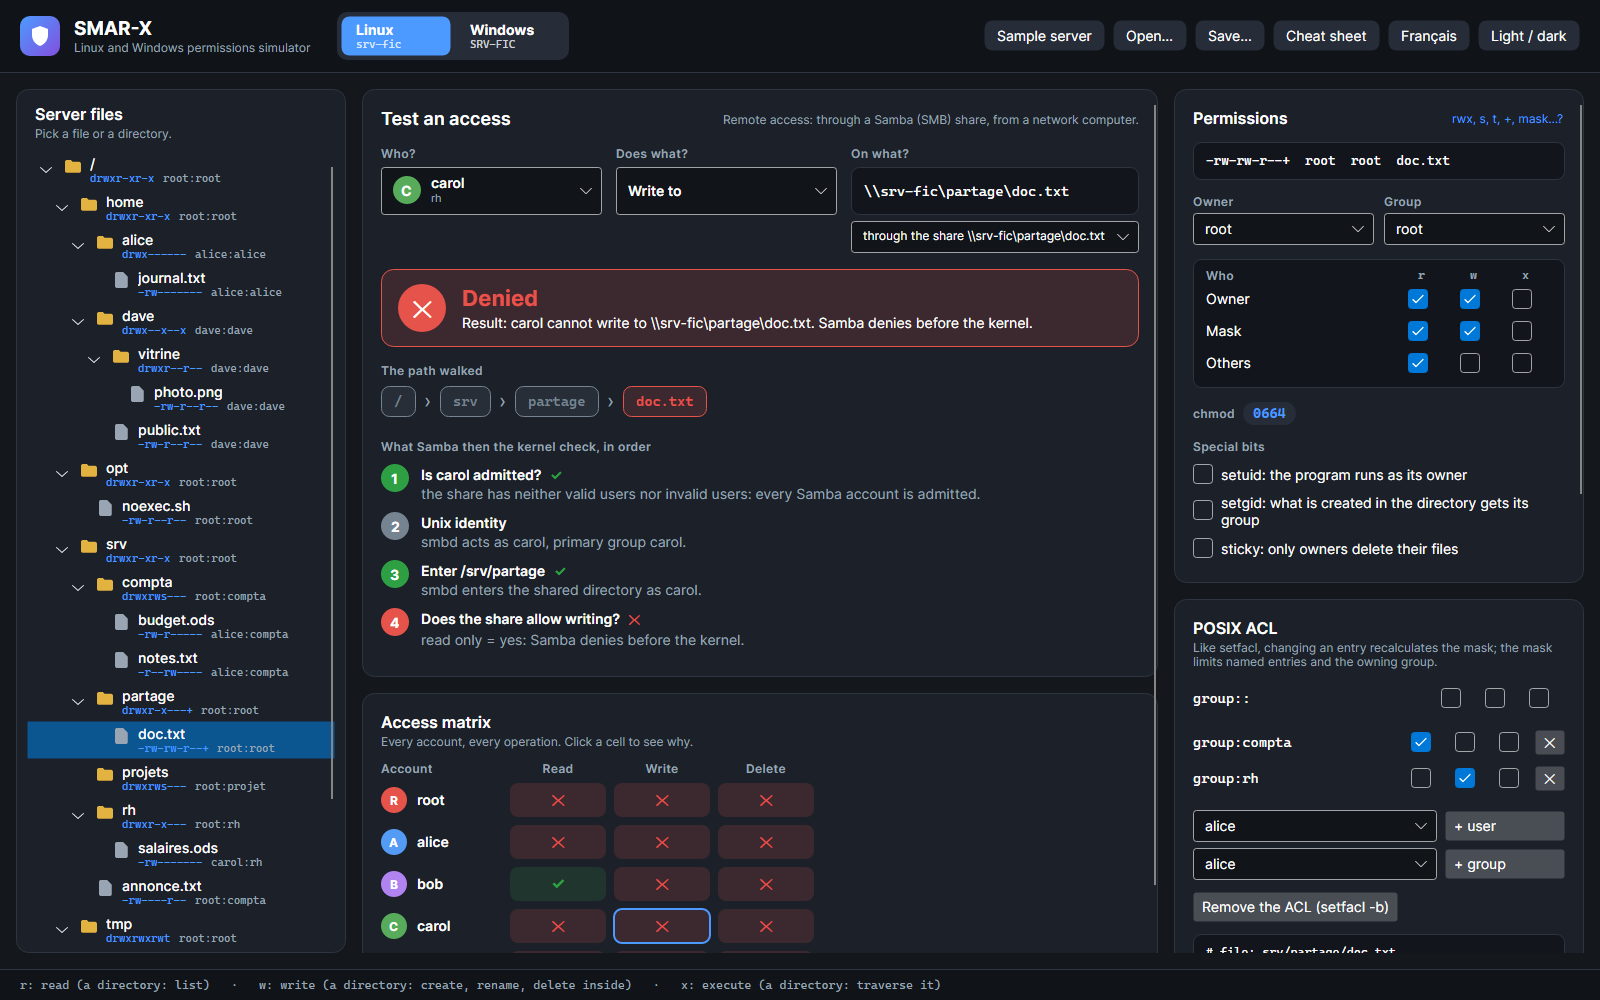
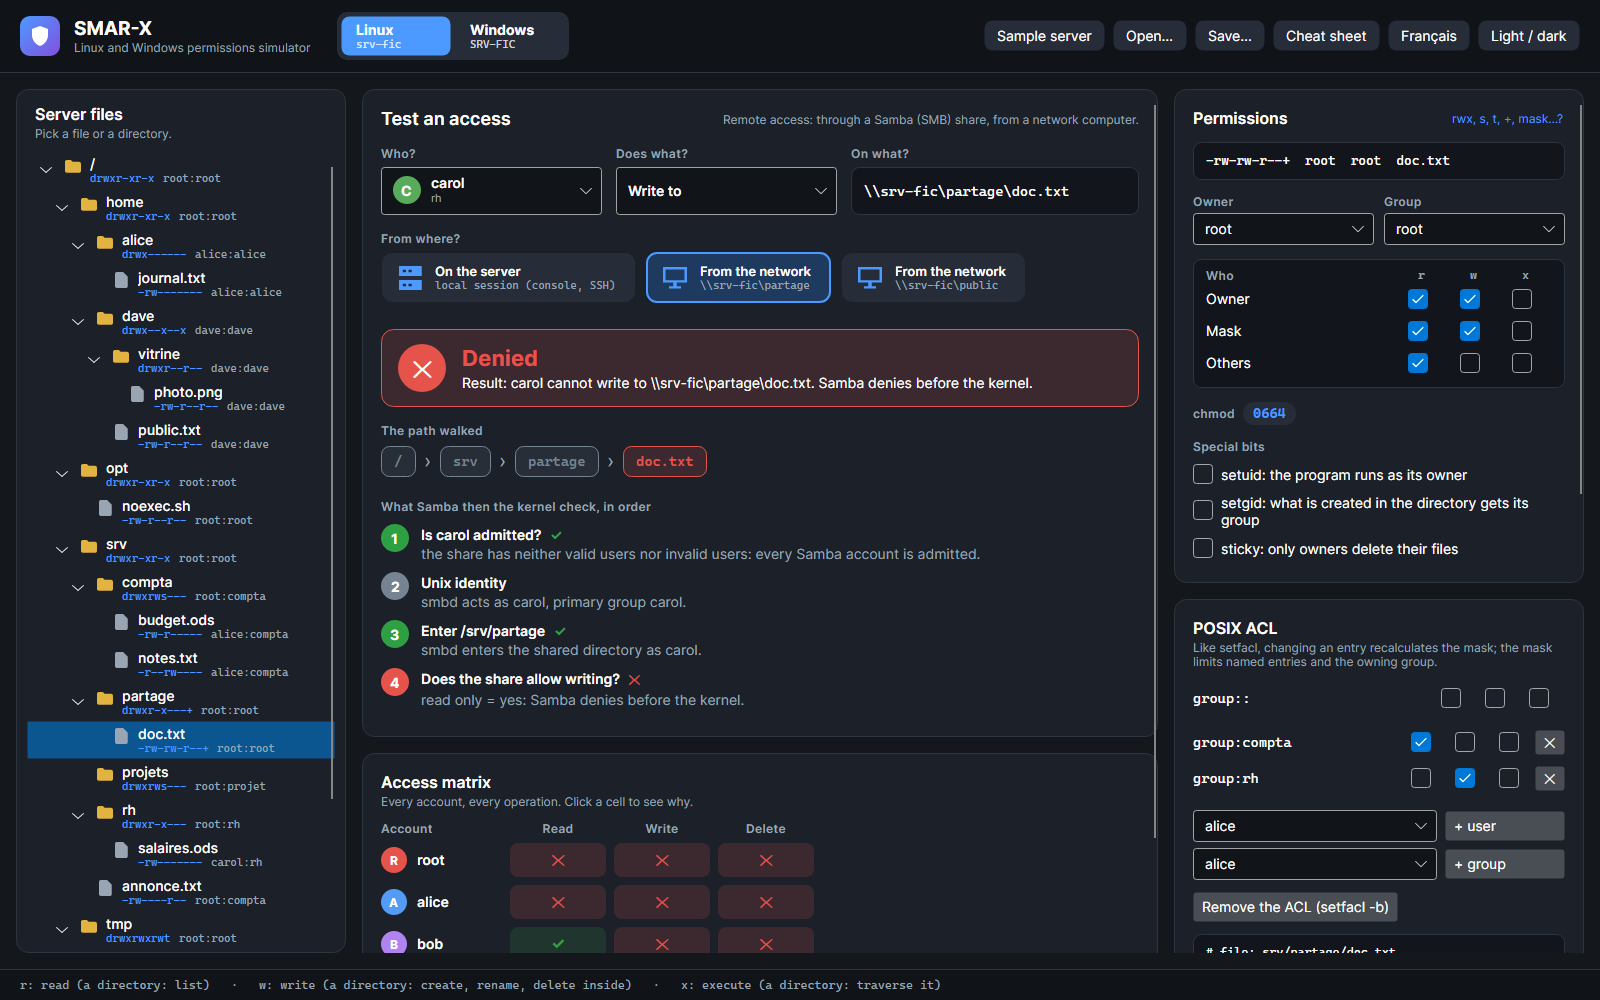
feat: SMAR-X, choix « D'où ? » en cartes (serveur ou poste du réseau)
La liste déroulante de la route laisse place à des cartes avec une icône de serveur (session locale) ou de poste (depuis le réseau, par un partage), dans les testeurs Windows et Linux. Documentation FR/EN et captures mises à jour.

Changed region(s): [[0.2188, 0.217, 0.7188, 0.961], [0.5625, 0.465, 0.5938, 0.496], [0.5, 0.465, 0.5312, 0.496]]

diff --git a/SMAR-X/ViewModels/WindowsWorkspaceViewModel.cs b/SMAR-X/ViewModels/WindowsWorkspaceViewModel.cs
@@ -125,14 +125,16 @@ namespace SMARX.ViewModels
         {
             var previous = SelectedRoute?.Share?.Name;
             Routes.Clear();
-            Routes.Add(new RouteItem(null, Text.T("en local, sur le serveur", "locally, on the server")));
+            Routes.Add(new RouteItem(null, Text.T("en local, sur le serveur", "locally, on the server"),
+                Text.T("Sur le serveur", "On the server"), Text.T("session locale (console, RDP)", "local session (console, RDP)")));
             ShareLines.Clear();
             if (SelectedNode is { } node)
             {
                 foreach (var share in SmbAccess.SharesOf(Host, node.Path))
                 {
                     var unc = share.Unc(Host.Name, node.Path);
-                    Routes.Add(new RouteItem(share, Text.T($"par le partage {unc}", $"through the share {unc}")));
+                    Routes.Add(new RouteItem(share, Text.T($"par le partage {unc}", $"through the share {unc}"),
+                        Text.T("Depuis le réseau", "From the network"), $@"\\{Host.Name}\{share.Name}"));
                     ShareLines.Add(string.Equals(share.Path, node.Path, StringComparison.OrdinalIgnoreCase)
                         ? Text.T($"Partagé : {unc}", $"Shared: {unc}") + (share.IsHidden ? Text.T(" (caché)", " (hidden)") : "")
                         : Text.T($"Accessible par {unc}", $"Reachable through {unc}"));

diff --git a/SMAR-X/ViewModels/LinuxWorkspaceViewModel.cs b/SMAR-X/ViewModels/LinuxWorkspaceViewModel.cs
@@ -140,14 +140,16 @@ namespace SMARX.ViewModels
         {
             var previous = SelectedRoute?.Share?.Name;
             Routes.Clear();
-            Routes.Add(new SambaRouteItem(null, Text.T("en local, sur le serveur", "locally, on the server")));
+            Routes.Add(new SambaRouteItem(null, Text.T("en local, sur le serveur", "locally, on the server"),
+                Text.T("Sur le serveur", "On the server"), Text.T("session locale (console, SSH)", "local session (console, SSH)")));
             ShareLines.Clear();
             if (SelectedNode is { } node)
             {
                 foreach (var share in SambaAccess.SharesOf(Host, node.Path))
                 {
                     var unc = share.Unc(Host.Name, node.Path);
-                    Routes.Add(new SambaRouteItem(share, Text.T($"par le partage {unc}", $"through the share {unc}")));
+                    Routes.Add(new SambaRouteItem(share, Text.T($"par le partage {unc}", $"through the share {unc}"),
+                        Text.T("Depuis le réseau", "From the network"), $@"\\{Host.Name}\{share.Name}"));
                     ShareLines.Add(share.Path == node.Path
                         ? Text.T($"Partagé : {unc}", $"Shared: {unc}") + (share.Browseable ? "" : Text.T(" (caché)", " (hidden)"))
                         : Text.T($"Accessible par {unc}", $"Reachable through {unc}"));

diff --git a/SMAR-X/ViewModels/Items.cs b/SMAR-X/ViewModels/Items.cs
@@ -131,10 +131,15 @@ namespace SMARX.ViewModels
 
     /// <summary>Une étape vérifiée, numérotée : accordée, refusée, ou neutre (information, ACE sans effet).</summary>
     /// <summary>Une route vers l'objet testé sous Linux : en local (pas de partage), ou par un partage Samba.</summary>
-    public sealed class SambaRouteItem(SambaShare? share, string label)
+    public sealed class SambaRouteItem(SambaShare? share, string label, string title, string detail)
     {
         public SambaShare? Share { get; } = share;
         public string Label { get; } = label;
+        /// <summary>« Sur le serveur » ou « Depuis le réseau » ; <see cref="Detail"/> : la session, ou le partage.</summary>
+        public string Title { get; } = title;
+        public string Detail { get; } = detail;
+        public bool IsLocal => Share == null;
+        public bool IsNetwork => Share != null;
         public override string ToString() => Label;
     }
 

diff --git a/SMAR-X/ViewModels/WindowsItems.cs b/SMAR-X/ViewModels/WindowsItems.cs
@@ -11,10 +11,15 @@ namespace SMARX.ViewModels
 {
     /// <summary>Un choix d'une liste déroulante : une valeur et son libellé dans la langue de l'interface.</summary>
     /// <summary>Une route vers l'objet testé : en local (pas de partage), ou par un partage.</summary>
-    public sealed class RouteItem(SmbShare? share, string label)
+    public sealed class RouteItem(SmbShare? share, string label, string title, string detail)
     {
         public SmbShare? Share { get; } = share;
         public string Label { get; } = label;
+        /// <summary>« Sur le serveur » ou « Depuis le réseau » ; <see cref="Detail"/> : la session, ou le partage.</summary>
+        public string Title { get; } = title;
+        public string Detail { get; } = detail;
+        public bool IsLocal => Share == null;
+        public bool IsNetwork => Share != null;
         public override string ToString() => Label;
     }
 

diff --git a/SMAR-X/SmarxText.cs b/SMAR-X/SmarxText.cs
@@ -61,6 +61,7 @@ namespace SMARX
             ["Tester.Allowed"] = ("Autorisé", "Allowed"),
             ["Tester.Denied"] = ("Refusé", "Denied"),
             ["Tester.Path"] = ("Le chemin parcouru", "The path walked"),
+            ["Tester.From"] = ("D'où ?", "From where?"),
             ["Tester.Steps"] = ("Ce que vérifie le noyau, dans l'ordre", "What the kernel checks, in order"),
             ["Tester.Local"] = ("Accès local : session ouverte sur le serveur (console, SSH).", "Local access: session open on the server (console, SSH)."),
 

diff --git a/docs/fr/smar-x/partages.md b/docs/fr/smar-x/partages.md
@@ -4,7 +4,7 @@ Depuis un poste du réseau, on n'ouvre pas `D:\Partages\Projets\planning.xlsx` :
 
 ## Tester un accès par le réseau
 
-Sous **Sur quoi ?**, le testeur propose **en local, sur le serveur**, puis **par le partage \\\\SRV-FIC\\…** pour chaque partage qui contient l'objet, du plus proche au plus large. Par un partage, le testeur montre le jeton réseau, les autorisations du partage, ce que cache l'énumération basée sur l'accès, puis les étapes NTFS habituelles ; le verdict dit lequel des deux refuse. La matrice d'accès suit le même chemin.
+Sous **D'où ?**, le testeur montre d'où vient l'accès, en cartes : **Sur le serveur** (icône de serveur), pour une session ouverte sur le serveur, puis **Depuis le réseau** (icône de poste) pour chaque partage qui contient l'objet, du plus proche au plus large ; la carte donne le partage (`\\SRV-FIC\Projets`). La carte choisie est encadrée, et son infobulle donne le chemin complet. Par un partage, le testeur montre le jeton réseau, les autorisations du partage, ce que cache l'énumération basée sur l'accès, puis les étapes NTFS habituelles ; le verdict dit lequel des deux refuse. La matrice d'accès suit le même chemin.
 
 ![SMAR-X teste un accès par le partage Projets](../assets/screens/smarx-network.png)
 

diff --git a/docs/en/smar-x/shares.md b/docs/en/smar-x/shares.md
@@ -4,7 +4,7 @@ From a network computer, you don't open `D:\Partages\Projets\planning.xlsx`: you
 
 ## Testing an access over the network
 
-Under **On what?**, the tester offers **locally, on the server**, then **through the share \\\\SRV-FIC\\…** for each share that contains the object, from the closest to the broadest. Through a share, the tester shows the network token, the share permissions, what access-based enumeration hides, then the usual NTFS steps; the verdict says which of the two denies. The access matrix follows the same route.
+Under **From where?**, the tester shows where the access comes from, as cards: **On the server** (server icon), for a session open on the server, then **From the network** (workstation icon) for each share that contains the object, from the closest to the broadest; the card gives the share (`\\SRV-FIC\Projets`). The chosen card is framed, and its tooltip gives the full path. Through a share, the tester shows the network token, the share permissions, what access-based enumeration hides, then the usual NTFS steps; the verdict says which of the two denies. The access matrix follows the same route.
 
 ![SMAR-X tests an access through the Projets share](../assets/screens/smarx-network.png)
 

diff --git a/docs/fr/smar-x/index.md b/docs/fr/smar-x/index.md
@@ -20,7 +20,7 @@ Un serveur Linux (`srv-fic`) et un serveur Windows (`SRV-FIC`) d'exemple s'ouvre
 | **Commandes** | `chmod`, `chown`, `setfacl` qui recréent l'état affiché | `icacls` qui recrée l'état affiché |
 | **Comptes** | comptes, groupes, `usermod`, `useradd`, `groupadd` | comptes et groupes locaux, `net localgroup` |
 
-L'accès testé peut être **local** (une session ouverte sur le serveur) ou venir du réseau, par un partage : **SMB** sous Windows (voir [Accès par un partage](partages.md)), **Samba** sous Linux (voir [Partage Samba](samba.md)).
+Sous **D'où ?**, le testeur choisit l'origine de l'accès : **Sur le serveur** (une session ouverte sur le serveur), ou **Depuis le réseau**, par un partage : **SMB** sous Windows (voir [Accès par un partage](partages.md)), **Samba** sous Linux (voir [Partage Samba](samba.md)).
 
 ## Fidèle aux vrais systèmes
 

diff --git a/docs/en/smar-x/index.md b/docs/en/smar-x/index.md
@@ -20,7 +20,7 @@ A sample Linux server (`srv-fic`) and a sample Windows server (`SRV-FIC`) open a
 | **Commands** | `chmod`, `chown`, `setfacl` that recreate what is shown | `icacls` that recreates what is shown |
 | **Accounts** | accounts, groups, `usermod`, `useradd`, `groupadd` | local accounts and groups, `net localgroup` |
 
-The access tested can be **local** (a session open on the server) or come from the network, through a share: **SMB** on Windows (see [Access through a share](shares.md)), **Samba** on Linux (see [Samba share](samba.md)).
+Under **From where?**, the tester picks where the access comes from: **On the server** (a session open on the server), or **From the network**, through a share: **SMB** on Windows (see [Access through a share](shares.md)), **Samba** on Linux (see [Samba share](samba.md)).
 
 ## Faithful to real systems
 

diff --git a/docs/fr/smar-x/samba.md b/docs/fr/smar-x/samba.md
@@ -4,7 +4,7 @@ Sous Linux, un poste du réseau accède aux fichiers par un **partage Samba** : 
 
 ## Tester un accès par Samba
 
-Sous **Sur quoi ?**, le testeur propose **en local, sur le serveur**, puis **par le partage \\\\srv-fic\\…** pour chaque partage qui contient l'objet. Par un partage, il propose ce que fait un client SMB :
+Sous **D'où ?**, le testeur propose **Sur le serveur** (icône de serveur), pour une session ouverte sur le serveur (console, SSH), puis **Depuis le réseau** (icône de poste) pour chaque partage qui contient l'objet ; la carte donne le partage (`\\srv-fic\partage`). Par un partage, il propose ce que fait un client SMB :
 - pour un fichier : lire, modifier le contenu, supprimer ;
 - pour un dossier : lister, créer dedans, supprimer.
 

diff --git a/docs/en/smar-x/samba.md b/docs/en/smar-x/samba.md
@@ -4,7 +4,7 @@ On Linux, a network computer reaches the files through a **Samba share**: `\\srv
 
 ## Testing an access through Samba
 
-Under **On what?**, the tester offers **locally, on the server**, then **through the share \\\\srv-fic\\…** for each share that contains the object. Through a share, it offers what an SMB client does:
+Under **From where?**, the tester offers **On the server** (server icon), for a session open on the server (console, SSH), then **From the network** (workstation icon) for each share that contains the object; the card gives the share (`\\srv-fic\partage`). Through a share, it offers what an SMB client does:
 - for a file: read, write to, delete;
 - for a directory: list, create in, delete.
 
